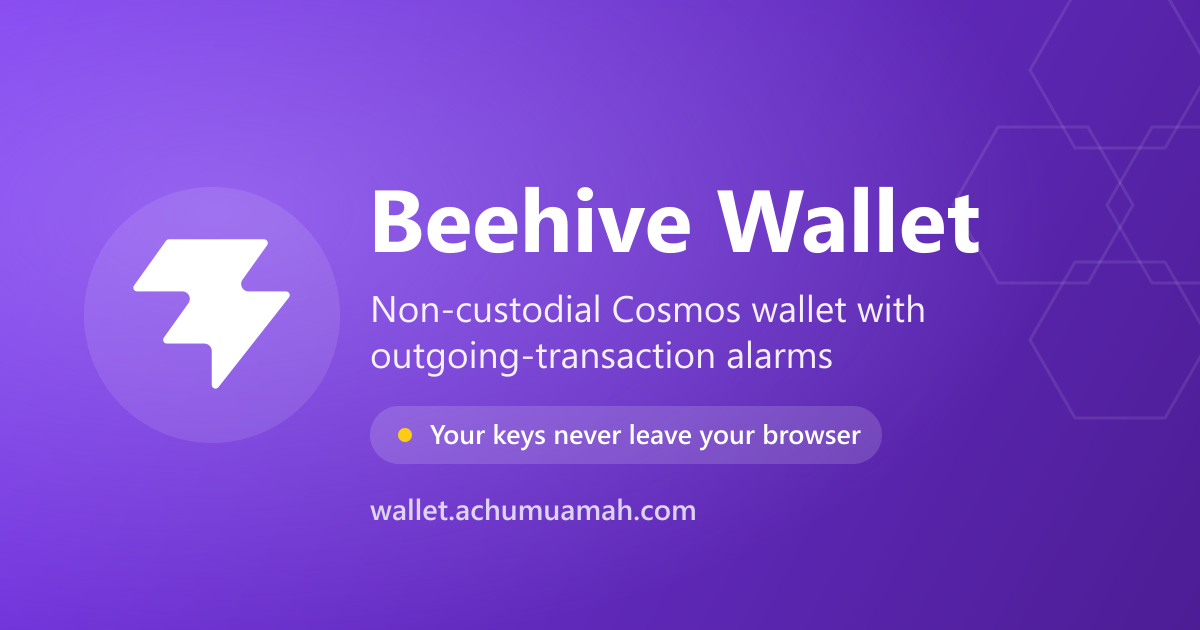
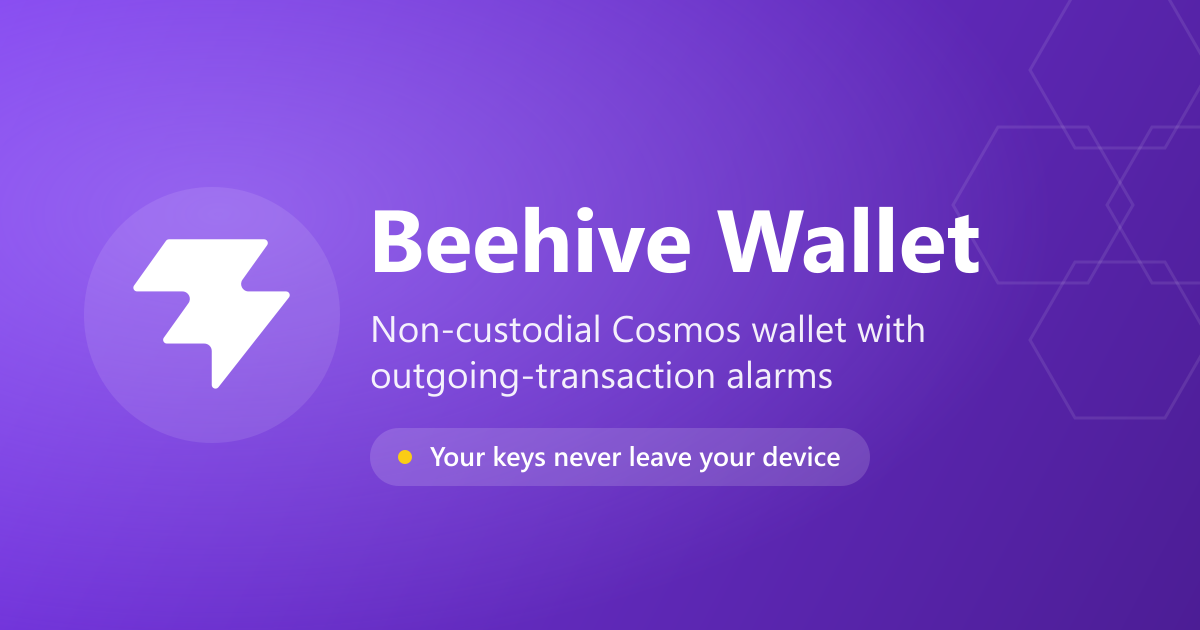
og: drop the dev domain and web-app framing from the share card
The card advertised wallet.achumuamah.com - a dev host that will be replaced - and said 'Your keys never leave your browser', which reads as a web-app claim that would follow the product onto the App Store and Google Play listings. The image now shows no URL at all and says 'device'; the meta descriptions match. No store badges or coming-soon claims, so the card stays accurate before and after the listings exist.

og:url / og:image / canonical now come from VITE_SITE_URL (app/.env) instead of a hardcoded host, so moving to the official domain is one value plus a rebuild. This cannot be derived at runtime: social crawlers fetch the raw HTML and do not execute JavaScript, so the tags must be correct as served.

Also corrects verify-deployment.ps1, which reported ext/curl as available by reading the CLI SAPI. Apache's SAPI fails to load php_curl.dll - the reason api/common.php uses the HTTPS stream wrapper - so the script no longer requires curl and now reports what Apache actually loaded.

Changed region(s): [[0.3083, 0.2714, 0.8325, 0.8444]]

diff --git a/app/index.html b/app/index.html
@@ -15,21 +15,27 @@
     <title>Beehive Wallet</title>
     <meta
       name="description"
-      content="Non-custodial Cosmos wallet with outgoing-transaction alarms. Your keys never leave your browser."
+      content="Non-custodial Cosmos wallet with outgoing-transaction alarms. Your keys never leave your device."
     />
-    <link rel="canonical" href="https://wallet.achumuamah.com/" />
+    <link rel="canonical" href="%VITE_SITE_URL%/" />
 
-    <!-- Open Graph / social sharing. Absolute URLs (crawlers ignore relative
-         ones), pinned to the canonical subdomain that the path build redirects to. -->
+    <!-- Open Graph / social sharing.
+         The host comes from VITE_SITE_URL (see app/.env) rather than being
+         hardcoded, so moving to the official domain is one value + a rebuild.
+         It cannot be derived at runtime: social crawlers fetch the raw HTML and
+         do not execute JavaScript, so these must be correct as served.
+         Absolute URLs are required - crawlers ignore relative ones.
+         Copy is deliberately platform-neutral ("device", no domain, no "web
+         app") so the same card holds up on the App Store / Google Play. -->
     <meta property="og:type" content="website" />
     <meta property="og:site_name" content="Beehive Wallet" />
     <meta property="og:title" content="Beehive Wallet" />
     <meta
       property="og:description"
-      content="Non-custodial Cosmos wallet with outgoing-transaction alarms. Your keys never leave your browser."
+      content="Non-custodial Cosmos wallet with outgoing-transaction alarms. Your keys never leave your device."
     />
-    <meta property="og:url" content="https://wallet.achumuamah.com/" />
-    <meta property="og:image" content="https://wallet.achumuamah.com/og-image.png" />
+    <meta property="og:url" content="%VITE_SITE_URL%/" />
+    <meta property="og:image" content="%VITE_SITE_URL%/og-image.png" />
     <meta property="og:image:type" content="image/png" />
     <meta property="og:image:width" content="1200" />
     <meta property="og:image:height" content="630" />
@@ -42,9 +48,9 @@
     <meta name="twitter:title" content="Beehive Wallet" />
     <meta
       name="twitter:description"
-      content="Non-custodial Cosmos wallet with outgoing-transaction alarms. Your keys never leave your browser."
+      content="Non-custodial Cosmos wallet with outgoing-transaction alarms. Your keys never leave your device."
     />
-    <meta name="twitter:image" content="https://wallet.achumuamah.com/og-image.png" />
+    <meta name="twitter:image" content="%VITE_SITE_URL%/og-image.png" />
     <meta
       name="twitter:image:alt"
       content="Beehive Wallet — non-custodial Cosmos wallet with transaction alarms"
